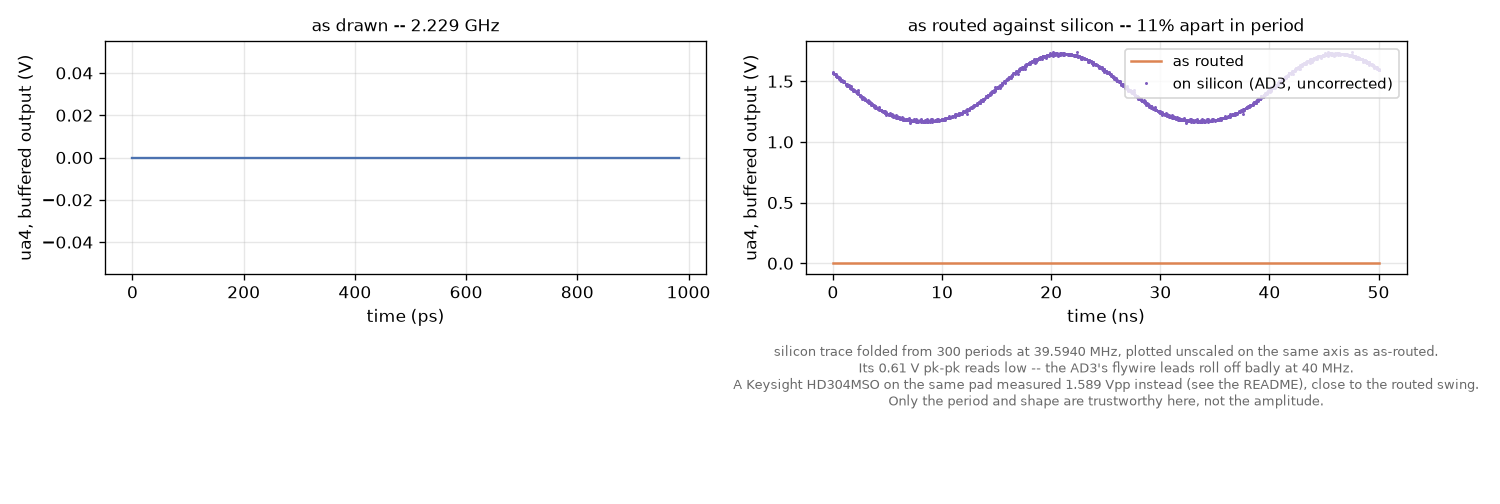
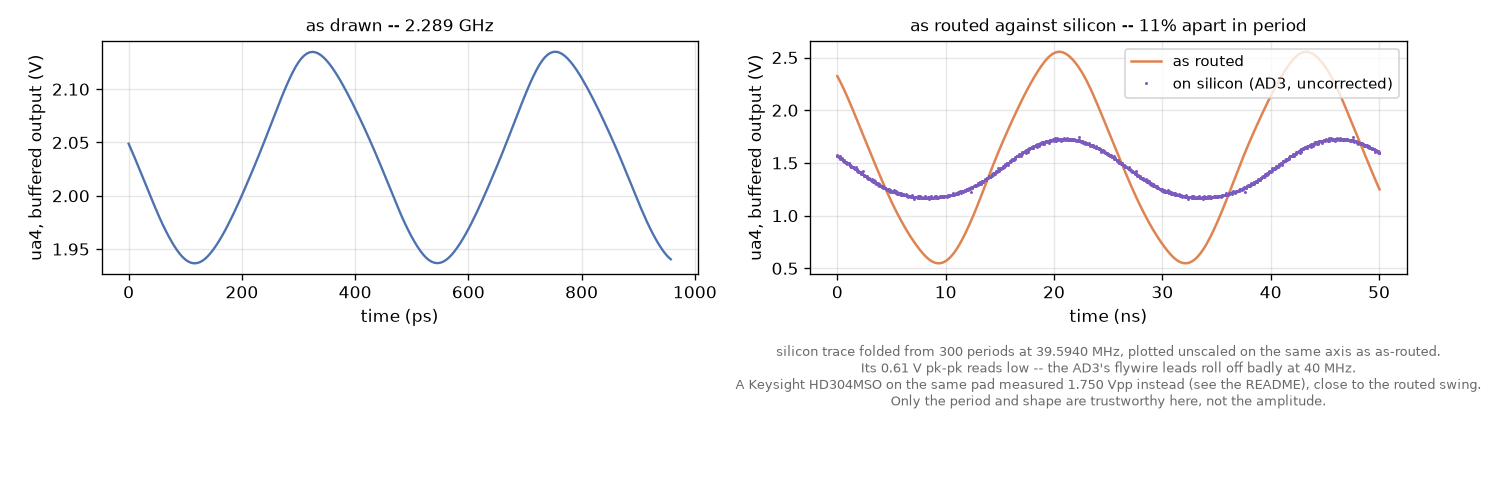
Fix tb_ring.sch's stale ua3 probe wiring, and refresh the ring's numbers on both parts
The ring's buffered output moved from ua3 to ua4 (previous commit), but
tb_ring.sch's own probe -- out_drawn/out_routed's wire stubs, sitting at
the mini_mosbius symbol's fixed pin positions -- was never moved with it.
It stayed on the ua3 position, now unused, so the wrdata'd traces and
plot_ring_comparison.py's figure were a flat 0 V line: a genuinely
disconnected node, not a plotting artifact. Swapped the two stub labels
(ua3 position <-> ua4 position) so "out_drawn"/"out_routed" land on the
net that actually oscillates.

Re-simulated and re-measured on both parts with the fix in place --
frequency, amplitude and the "against silicon" figures all move, on tnt's
part too, since the buffer now loads a different bus row than before.
Regenerated ring_comparison.png (its axis labels were still hardcoded
"ua3") and fixed its stale Keysight annotation (1.589 -> 1.750 Vpp).

Claude-Session: https://claude.ai/code/session_01M1yubyY1vszjvdvR5aTXdU

diff --git a/tools/plot_ring_comparison.py b/tools/plot_ring_comparison.py
@@ -196,7 +196,7 @@ def main() -> None:
                    "on the same axis as as-routed.\n"
                    f"Its {bv.max() - bv.min():.2f} V pk-pk reads low -- the AD3's flywire leads roll off "
                    "badly at 40 MHz.\n"
-                   "A Keysight HD304MSO on the same pad measured 1.589 Vpp instead (see the README), "
+                   "A Keysight HD304MSO on the same pad measured 1.750 Vpp instead (see the README), "
                    "close to the routed swing.\n"
                    "Only the period and shape are trustworthy here, not the amplitude.",
                    transform=routed_ax.transAxes, fontsize=7.5, color="dimgrey",

diff --git a/examples/ringosc/README.md b/examples/ringosc/README.md
@@ -17,21 +17,21 @@ silicon trace reads low due to limited bandwidth of the AD3.*
 
 | | as drawn | as routed | on silicon |
 |---|---|---|---|
-| frequency | 2.229 GHz | 43.92 MHz | 39.59 MHz |
-| against silicon | x56 too fast | +10.9% | -- |
-| amplitude (Vpp) | 0.198 V | 1.72 V | 1.750 V |
+| frequency | 2.289 GHz | 43.95 MHz | 39.60 MHz |
+| against silicon | x58 too fast | +11.0% | -- |
+| amplitude (Vpp) | 0.208 V | 2.01 V | 1.750 V |
 
 Keysight HD304MSO used for amplitude measurement. Numbers above are for the
 buffered output on `ua4` (moved from `ua3` 2026-09-08 so this schematic also
-routes on Andrew Kang's part -- see CLAUDE.md); the loop itself is unchanged.
+routes on tt_um_mosbius -- see CLAUDE.md); the loop itself is unchanged.
 
-## On Andrew Kang's part
+## On tt_um_mosbius
 
 | | as drawn | as routed | on silicon |
 |---|---|---|---|
-| frequency | 2.227 GHz | 51.69 MHz | 44.61 MHz |
-| against silicon | x50 too fast | +15.9% | -- |
-| amplitude (Vpp) | -- | -- | 1.159 V |
+| frequency | 2.288 GHz | 51.39 MHz | 44.61 MHz |
+| against silicon | x51 too fast | +15.2% | -- |
+| amplitude (Vpp) | 0.208 V | 1.486 V | 1.159 V |
 
 ## Try this
 
